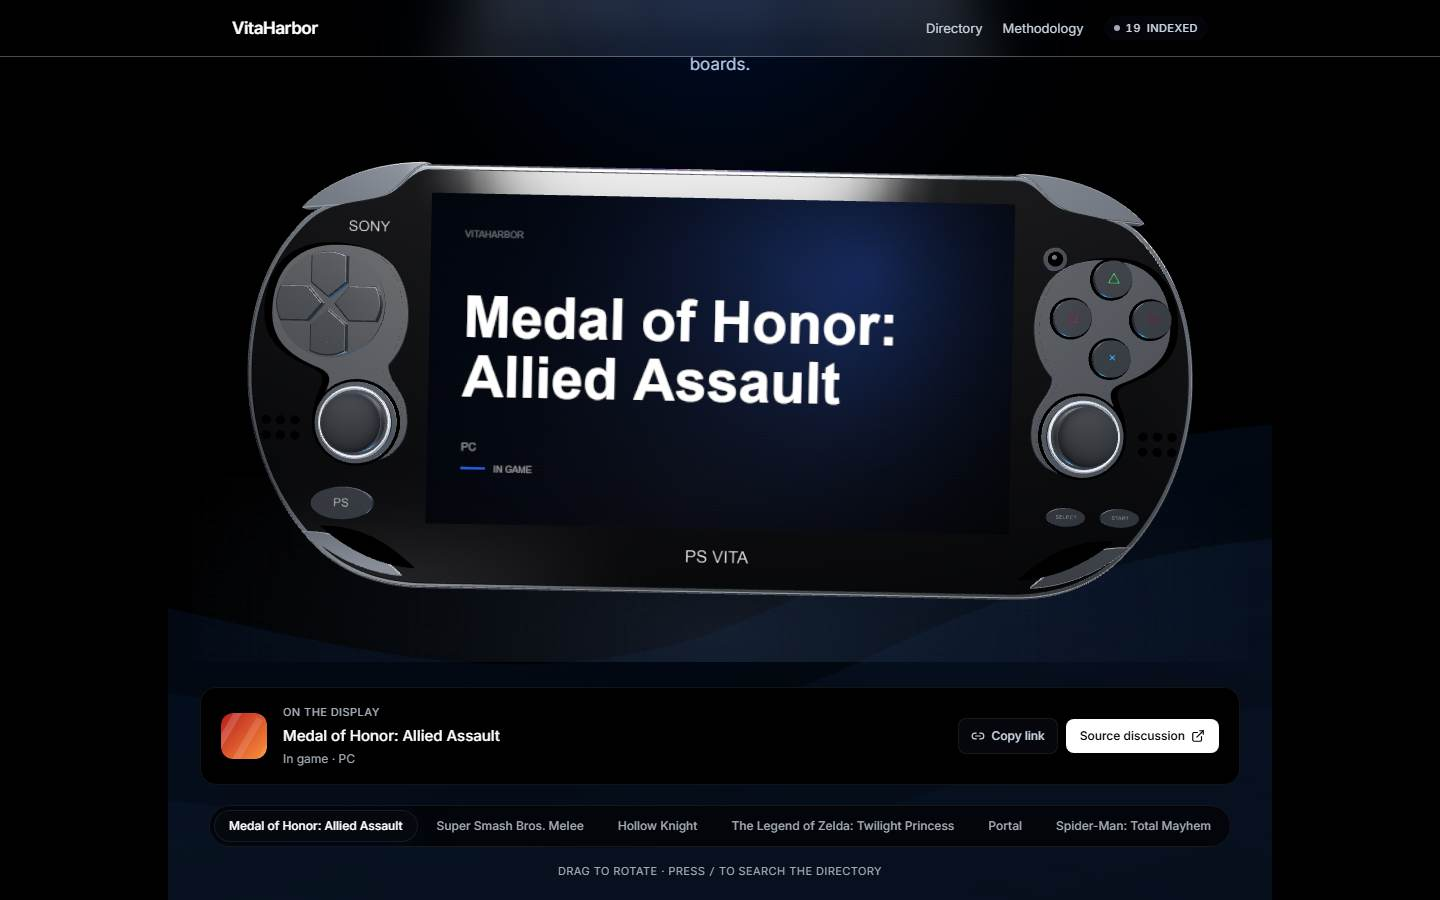
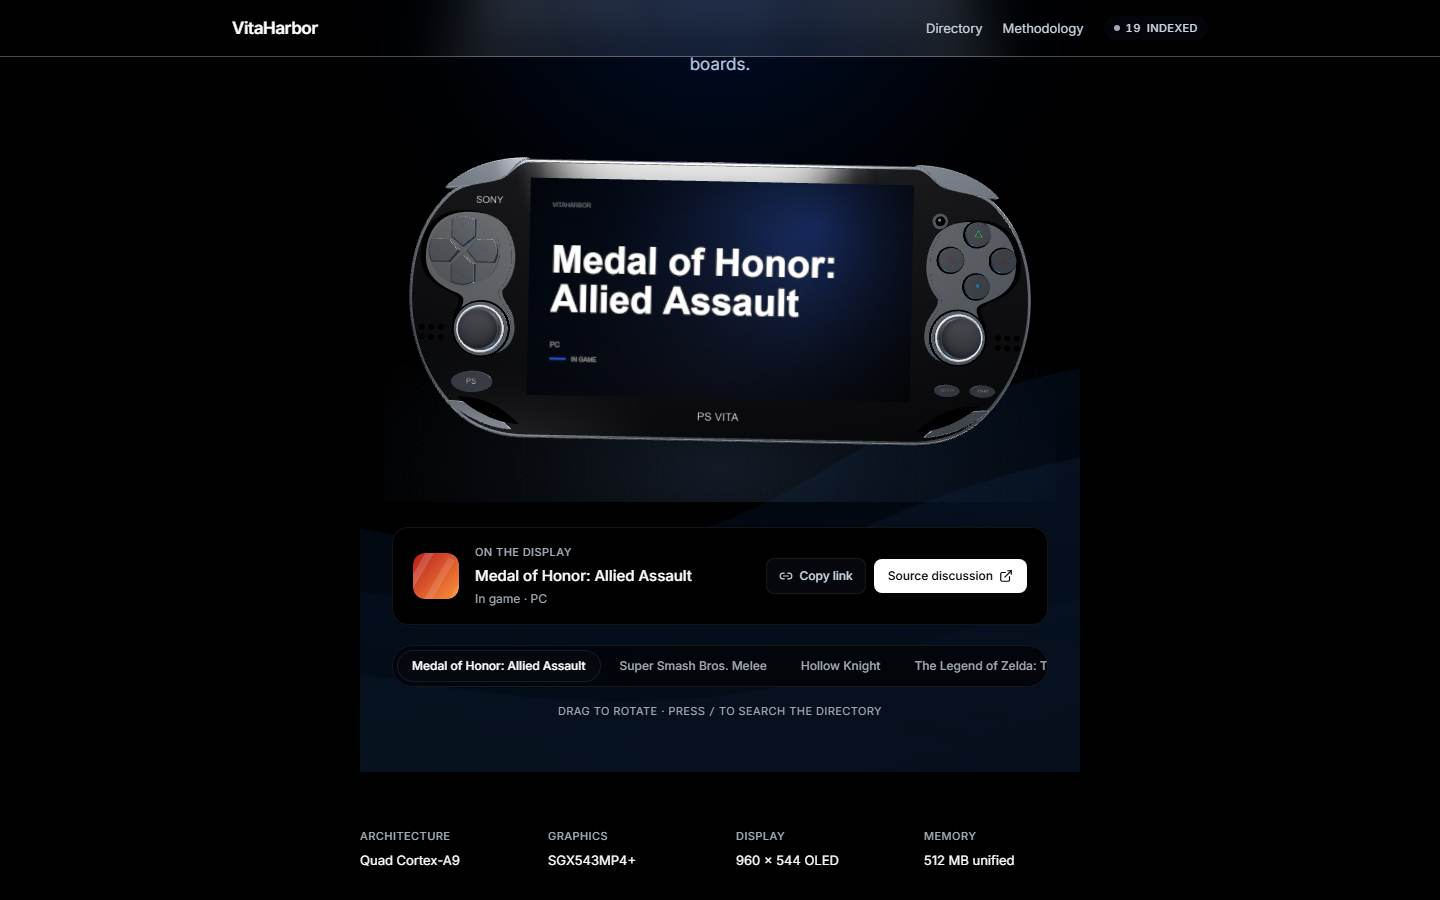
design: 2026 restrained dark art direction (muted palette, flat surfaces, no neon glow) + RC Cars scanner entry

diff --git a/src/shared/constants/fallbackData.ts b/src/shared/constants/fallbackData.ts
@@ -20,6 +20,7 @@ export const FALLBACK_GAMES: Game[] = [
   { id: 17, slug: "celeste-classic", title: "Celeste Classic Vita", normalized_title: "celeste classic vita", original_release_year: 2016, original_platform: "PICO-8 / C", created_at: new Date('2026-09-17T15:34:00.000Z'), updated_at: new Date('2026-09-17T15:34:00.000Z') },
   { id: 18, slug: "cave-story-nxengine", title: "Cave Story (NXEngine-evo)", normalized_title: "cave story (nxengine-evo)", original_release_year: 2004, original_platform: "PC", created_at: new Date('2026-09-17T15:34:00.000Z'), updated_at: new Date('2026-09-17T15:34:00.000Z') },
   { id: 19, slug: "renegade-vita-demo-release", title: "Renegade Vita - Demo Release", normalized_title: "renegade vita - demo release", original_release_year: null, original_platform: "Unknown", created_at: new Date('2026-09-15T03:40:12.000Z'), updated_at: new Date('2026-09-17T15:34:20.988Z') }
+  ,{ id: 20, slug: "rc-cars", title: "RC Cars", normalized_title: "rc cars", original_release_year: null, original_platform: "Unknown", created_at: new Date('2026-09-18T11:09:43.000Z'), updated_at: new Date('2026-09-18T11:09:43.000Z') }
 ];
 
 export const FALLBACK_PROJECTS: any[] = [
@@ -445,6 +446,29 @@ export const FALLBACK_PROJECTS: any[] = [
     technologies: [],
     developers: []
   }
+  ,{
+    id: 20,
+    game_id: 20,
+    slug: "rc-cars-vita",
+    reddit_url: "https://www.reddit.com/r/vitahacks/comments/1wjn8zg/rc_cars_port_progress/",
+    display_name: "RC Cars",
+    current_stage: "early_wip",
+    lifecycle: "active",
+    summary: "Surfaced by the scanner on r/vitahacks as a progress thread posted on 18 September 2026. The thread body could not be read, so no technical detail is claimed here and the entry stays unverified.",
+    playability_notes: null,
+    performance_notes: null,
+    first_seen_at: new Date('2026-09-18T11:09:43.000Z'),
+    last_activity_at: new Date('2026-09-18T11:09:43.000Z'),
+    released_at: null,
+    is_featured: false,
+    is_archived: false,
+    verification: "detected",
+    game_title: "RC Cars",
+    original_platform: "Unknown",
+    original_release_year: null,
+    technologies: [],
+    developers: []
+  }
 ];
 
 export const FALLBACK_DEVELOPERS: any[] = [
@@ -590,6 +614,20 @@ export const FALLBACK_UPDATES: any[] = [
     event_at: new Date('2026-09-10T15:34:00.000Z'),
     verification_level: "developer_direct",
     sources: [{ source_item_id: "src_nfs", relationship: "primary", canonical_url: "https://www.reddit.com/r/vitahacks/comments/18zdtep/new_port_psvita_hot_pursuit/" }]
+  }
+  ,{
+    id: "upd_rc_cars",
+    port_project_id: 20,
+    project_slug: "rc-cars-vita",
+    project_display_name: "RC Cars",
+    developer_display_name: "antoxa2584x",
+    developer_slug: "antoxa2584x",
+    event_type: "technical_progress",
+    title: "RC Cars port progress",
+    summary: "A progress thread for an RC Cars port appeared on r/vitahacks. The post body is not readable from the scanner, so this stays an unverified community signal.",
+    event_at: new Date('2026-09-18T11:09:43.000Z'),
+    verification_level: "unverified",
+    sources: [{ source_item_id: "src_rc_cars", relationship: "primary", canonical_url: "https://www.reddit.com/r/vitahacks/comments/1wjn8zg/rc_cars_port_progress/" }]
   }
 ];
 

diff --git a/tailwind.config.js b/tailwind.config.js
@@ -8,26 +8,26 @@ export default {
   theme: {
     extend: {
       colors: {
-        canvas: '#000000',
-        surface: 'rgba(7, 10, 18, 0.65)',
-        sunken: '#03050a',
+        canvas: '#0b0c0e',
+        surface: '#141619',
+        sunken: '#0e1013',
         hairline: {
-          DEFAULT: 'rgba(255, 255, 255, 0.08)',
-          strong: 'rgba(255, 255, 255, 0.16)',
+          DEFAULT: 'rgba(255, 255, 255, 0.07)',
+          strong: 'rgba(255, 255, 255, 0.14)',
         },
         ink: {
-          DEFAULT: '#ffffff',
-          medium: '#cbd5e1',
-          muted: '#a3acb5',
+          DEFAULT: '#f4f5f7',
+          medium: '#a2a8b0',
+          muted: '#6d737b',
         },
         stage: {
-          done: '#00ff9d',
-          progress: '#00d2ff',
-          caution: '#ff3366',
-          idle: '#7c848d',
+          done: '#3fb950',
+          progress: '#5b8def',
+          caution: '#d29922',
+          idle: '#5c636b',
         },
-        deep: '#030509',
-        accent: '#0055ff',
+        deep: '#0e1013',
+        accent: '#4d7cfe',
       },
       fontSize: {
         micro: ['11px', { lineHeight: '16px', letterSpacing: '0.04em' }],
@@ -40,8 +40,8 @@ export default {
         displaylg: ['56px', { lineHeight: '58px', letterSpacing: '-0.035em' }],
       },
       boxShadow: {
-        card: '0 8px 32px 0 rgba(0, 15, 40, 0.4)',
-        lift: '0 20px 50px -10px rgba(0, 85, 255, 0.15), 0 0 0 1px rgba(255,255,255,0.05)',
+        card: '0 1px 0 0 rgba(255,255,255,0.03), 0 10px 26px -18px rgba(0,0,0,0.8)',
+        lift: '0 20px 44px -28px rgba(0,0,0,0.9), 0 0 0 1px rgba(255,255,255,0.05)',
       },
       fontFamily: {
         sans: ['Inter', 'system-ui', '-apple-system', 'Segoe UI', 'Roboto', 'sans-serif'],

diff --git a/src/web/styles/index.css b/src/web/styles/index.css
@@ -18,12 +18,10 @@
   }
 
   body {
-    background-color: #000000;
-    background-image: 
-      radial-gradient(circle at 15% 50%, rgba(0, 85, 255, 0.08) 0%, transparent 40%),
-      radial-gradient(circle at 85% 30%, rgba(0, 210, 255, 0.05) 0%, transparent 40%);
-    background-attachment: fixed;
-    color: #ffffff;
+    background-color: #0b0c0e;
+    background-image: linear-gradient(180deg, #101216 0%, #0b0c0e 340px);
+    background-repeat: no-repeat;
+    color: #f4f5f7;
     font-family: "Inter", system-ui, -apple-system, "Segoe UI", Roboto, sans-serif;
     -webkit-font-smoothing: antialiased;
     text-rendering: optimizeLegibility;
@@ -35,8 +33,8 @@
   }
 
   ::selection {
-    background: rgba(0, 210, 255, 0.3);
-    color: #ffffff;
+    background: rgba(77, 124, 254, 0.28);
+    color: #f4f5f7;
   }
 }
 
@@ -100,10 +98,9 @@
 }
 
 .vh-wave {
-  animation: vh-wave-drift 20s cubic-bezier(0.4, 0, 0.2, 1) infinite alternate;
+  animation: vh-wave-drift 26s cubic-bezier(0.4, 0, 0.2, 1) infinite alternate;
   will-change: transform;
-  opacity: 0.8;
-  mix-blend-mode: screen;
+  opacity: 0.22;
 }
 
 .vh-wave-slow { animation-duration: 32s; }
@@ -131,9 +128,7 @@
 
 /* Premium Glassmorphism Utility */
 .vh-glass {
-  background: rgba(10, 14, 23, 0.55);
-  backdrop-filter: blur(24px) saturate(180%);
-  -webkit-backdrop-filter: blur(24px) saturate(180%);
+  background-color: #141619;
   border: 1px solid rgba(255, 255, 255, 0.06);
 }
 

diff --git a/src/web/routes/HomePage.tsx b/src/web/routes/HomePage.tsx
@@ -293,12 +293,10 @@ export const HomePage: React.FC = () => {
       <main id="main-content" className="vh-boot">
         {/* Hero Copy */}
         <section className="relative mx-auto max-w-6xl px-6 pb-0 pt-10 text-center">
-          <div aria-hidden="true" className="pointer-events-none absolute left-1/2 -top-20 h-96 w-96 -translate-x-1/2 rounded-full bg-accent opacity-20 blur-[120px]" />
-          <p className="flex items-center justify-center gap-2 text-micro font-medium uppercase tracking-[0.2em] text-ink-medium">
-            <span aria-hidden="true" className="h-1.5 w-1.5 rounded-full bg-accent" />
+          <p className="flex items-center justify-center gap-2 text-micro font-medium uppercase tracking-[0.18em] text-ink-muted">
             Independent hardware archive
           </p>
-          <h1 className="mx-auto mt-4 max-w-4xl text-display font-bold text-transparent bg-clip-text bg-gradient-to-r from-white via-ink-medium to-accent drop-shadow-xl sm:text-[64px] sm:leading-[1.02] sm:tracking-[-0.04em]">
+          <h1 className="mx-auto mt-5 max-w-4xl text-display font-semibold text-ink sm:text-[60px] sm:leading-[1.03] sm:tracking-[-0.04em]">
             PlayStation Vita port archive.
           </h1>
           <p className="mx-auto mt-6 max-w-xl text-lead text-ink-medium">
